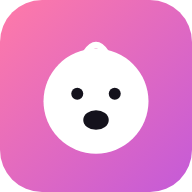
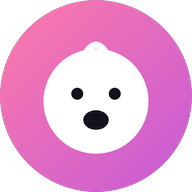
Ícono redondo
Claude-Session: https://claude.ai/code/session_016RjGXp6auYTBWYHjpfXcxM

diff --git a/sw.js b/sw.js
@@ -1,4 +1,4 @@
-const CACHE = 'llanto-v51';
+const CACHE = 'llanto-v52';
 const FILES = ['./', './index.html', './manifest.webmanifest', './icon.svg', './icon-192.png', './icon-512.png', './badge-96.png', './firebase-config.js'];
 
 self.addEventListener('install', e => {
